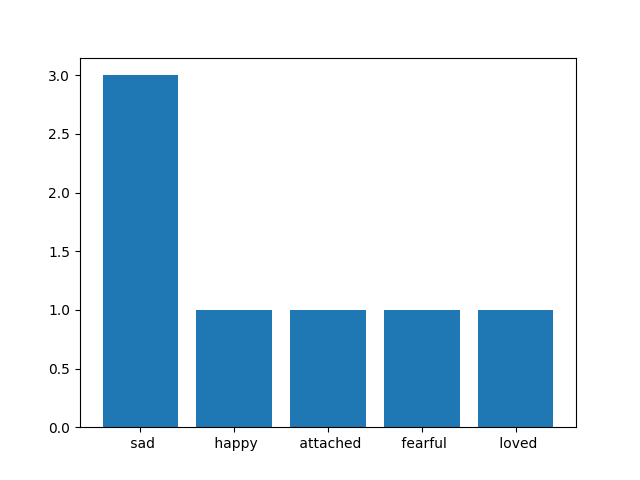
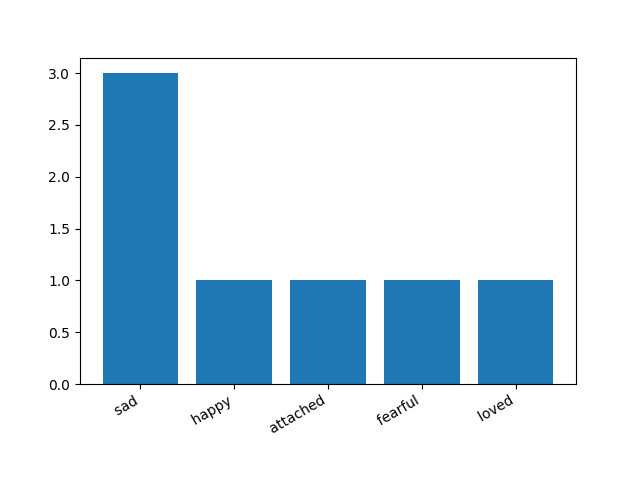
Add automatic figure update for matplotlib

diff --git a/main.py b/main.py
@@ -64,7 +64,8 @@ w = Counter(emotion_list)
 print(w)
 
 # Print counter using matplotlib graph
-
-plt.bar(w.keys(), w.values())
+fig, ax1 = plt.subplots() 
+ax1.bar(w.keys(), w.values())
+fig.autofmt_xdate() # automatic figure update
 plt.savefig('graph.png')
 plt.show()
